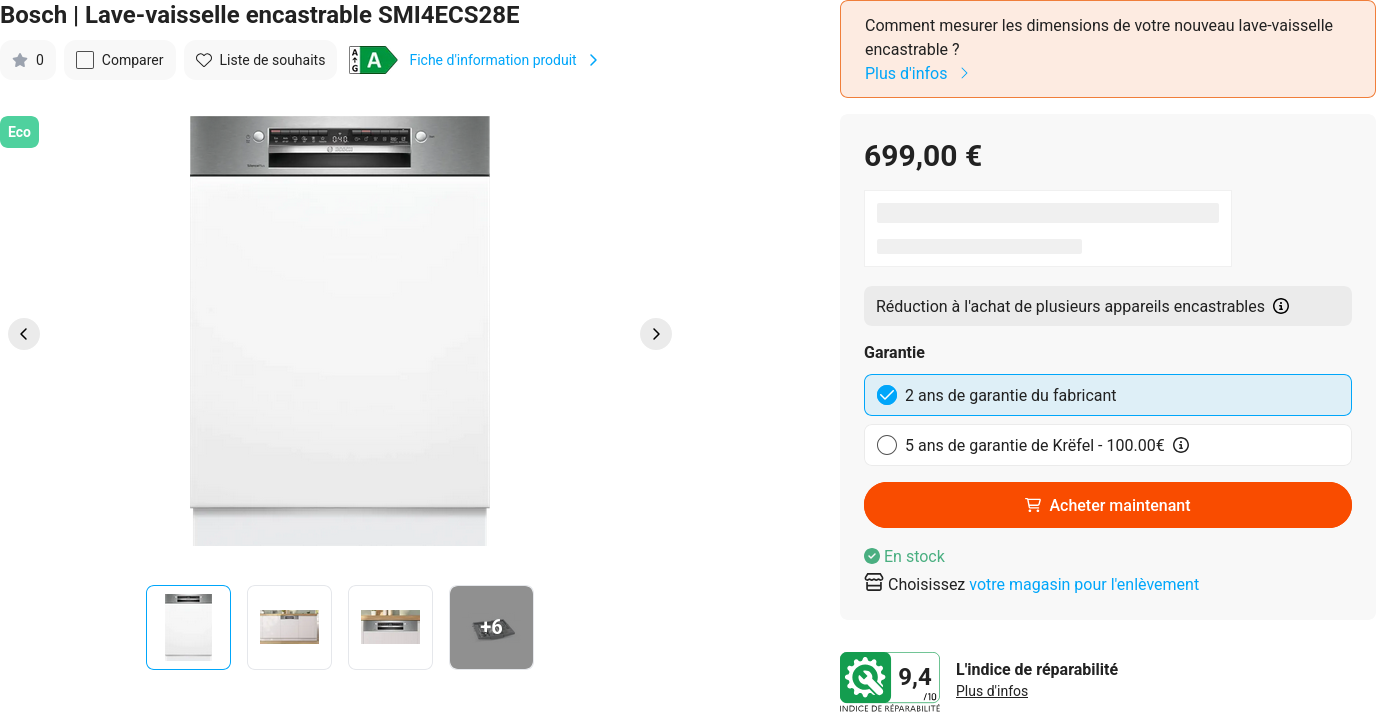
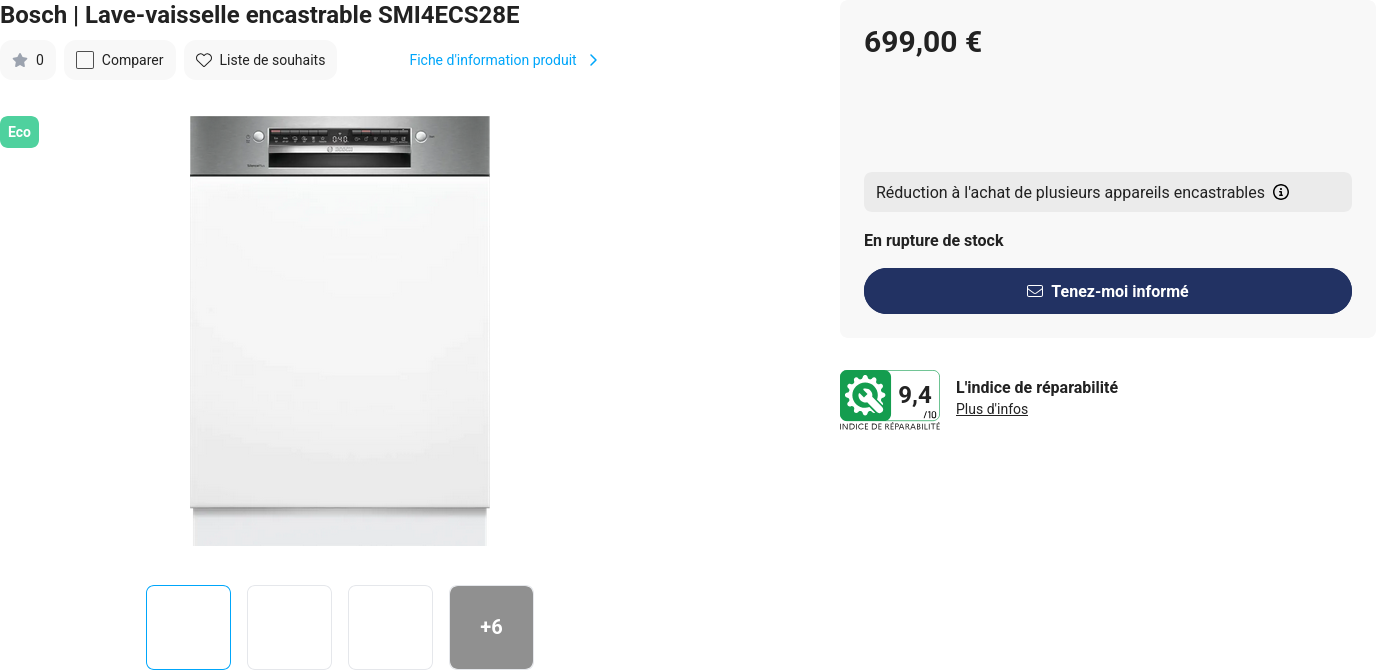
Latest scraping prices: Wed Jul  2 12:58:05 UTC 2025

diff --git a/scrapes/prices/krefel-SMI4ECS28E.md b/scrapes/prices/krefel-SMI4ECS28E.md
@@ -1,30 +1,16 @@
-Comment mesurer les dimensions de votre nouveau lave-vaisselle encastrable ?
-
-[Plus d'infos](https://www.krefel.be/fr/comment-mesurer-un-lave-vaisselle)
-
 699,00 €
 
 Réduction à l'achat de plusieurs appareils encastrables
 
-Garantie
+En rupture de stock
 
-2 ans de garantie du fabricant
-
-5 ans de garantie de Krëfel - 100.00€
-
-Acheter maintenant
-
-En stock
-
-Choisissez votre magasin pour l'enlèvement
+Tenez-moi informé
 
 ### 9,4
 
 #### L'indice de réparabilité
 
 [Plus d'infos](/fr/repair-index)
-
-![Nouveau label énergétique](https://media.krefel.be/sys-master/energyLabelIcons/9435007320094/3840x3840.A_new.webp)Fiche d'information produit
 
 ![](krefel-SMI4ECS28E.png)
 
